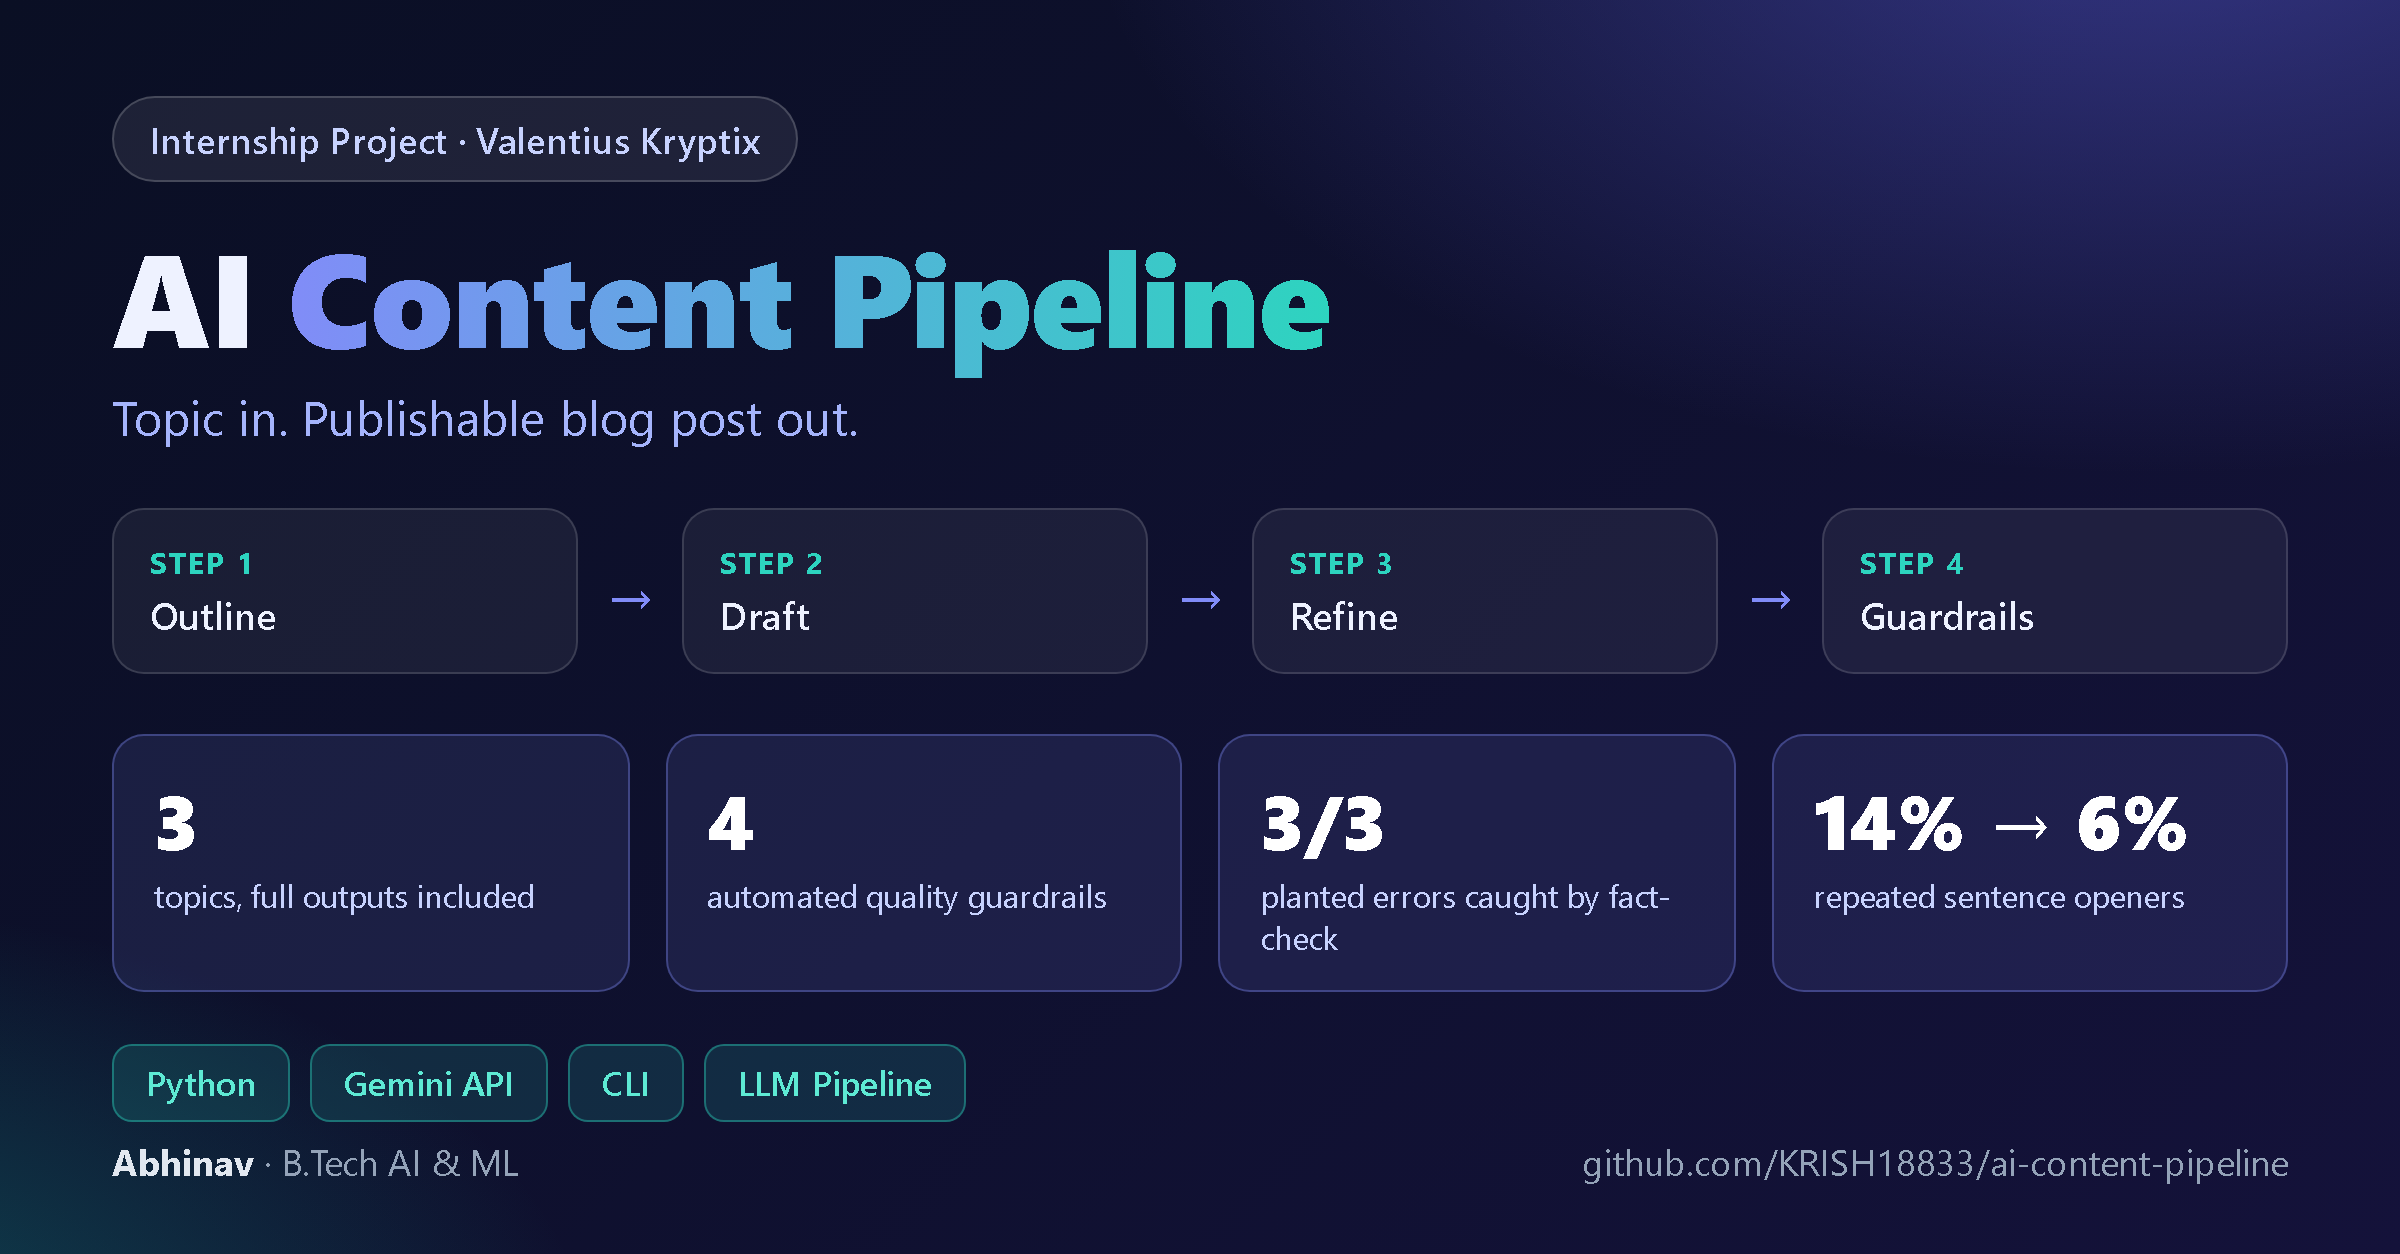
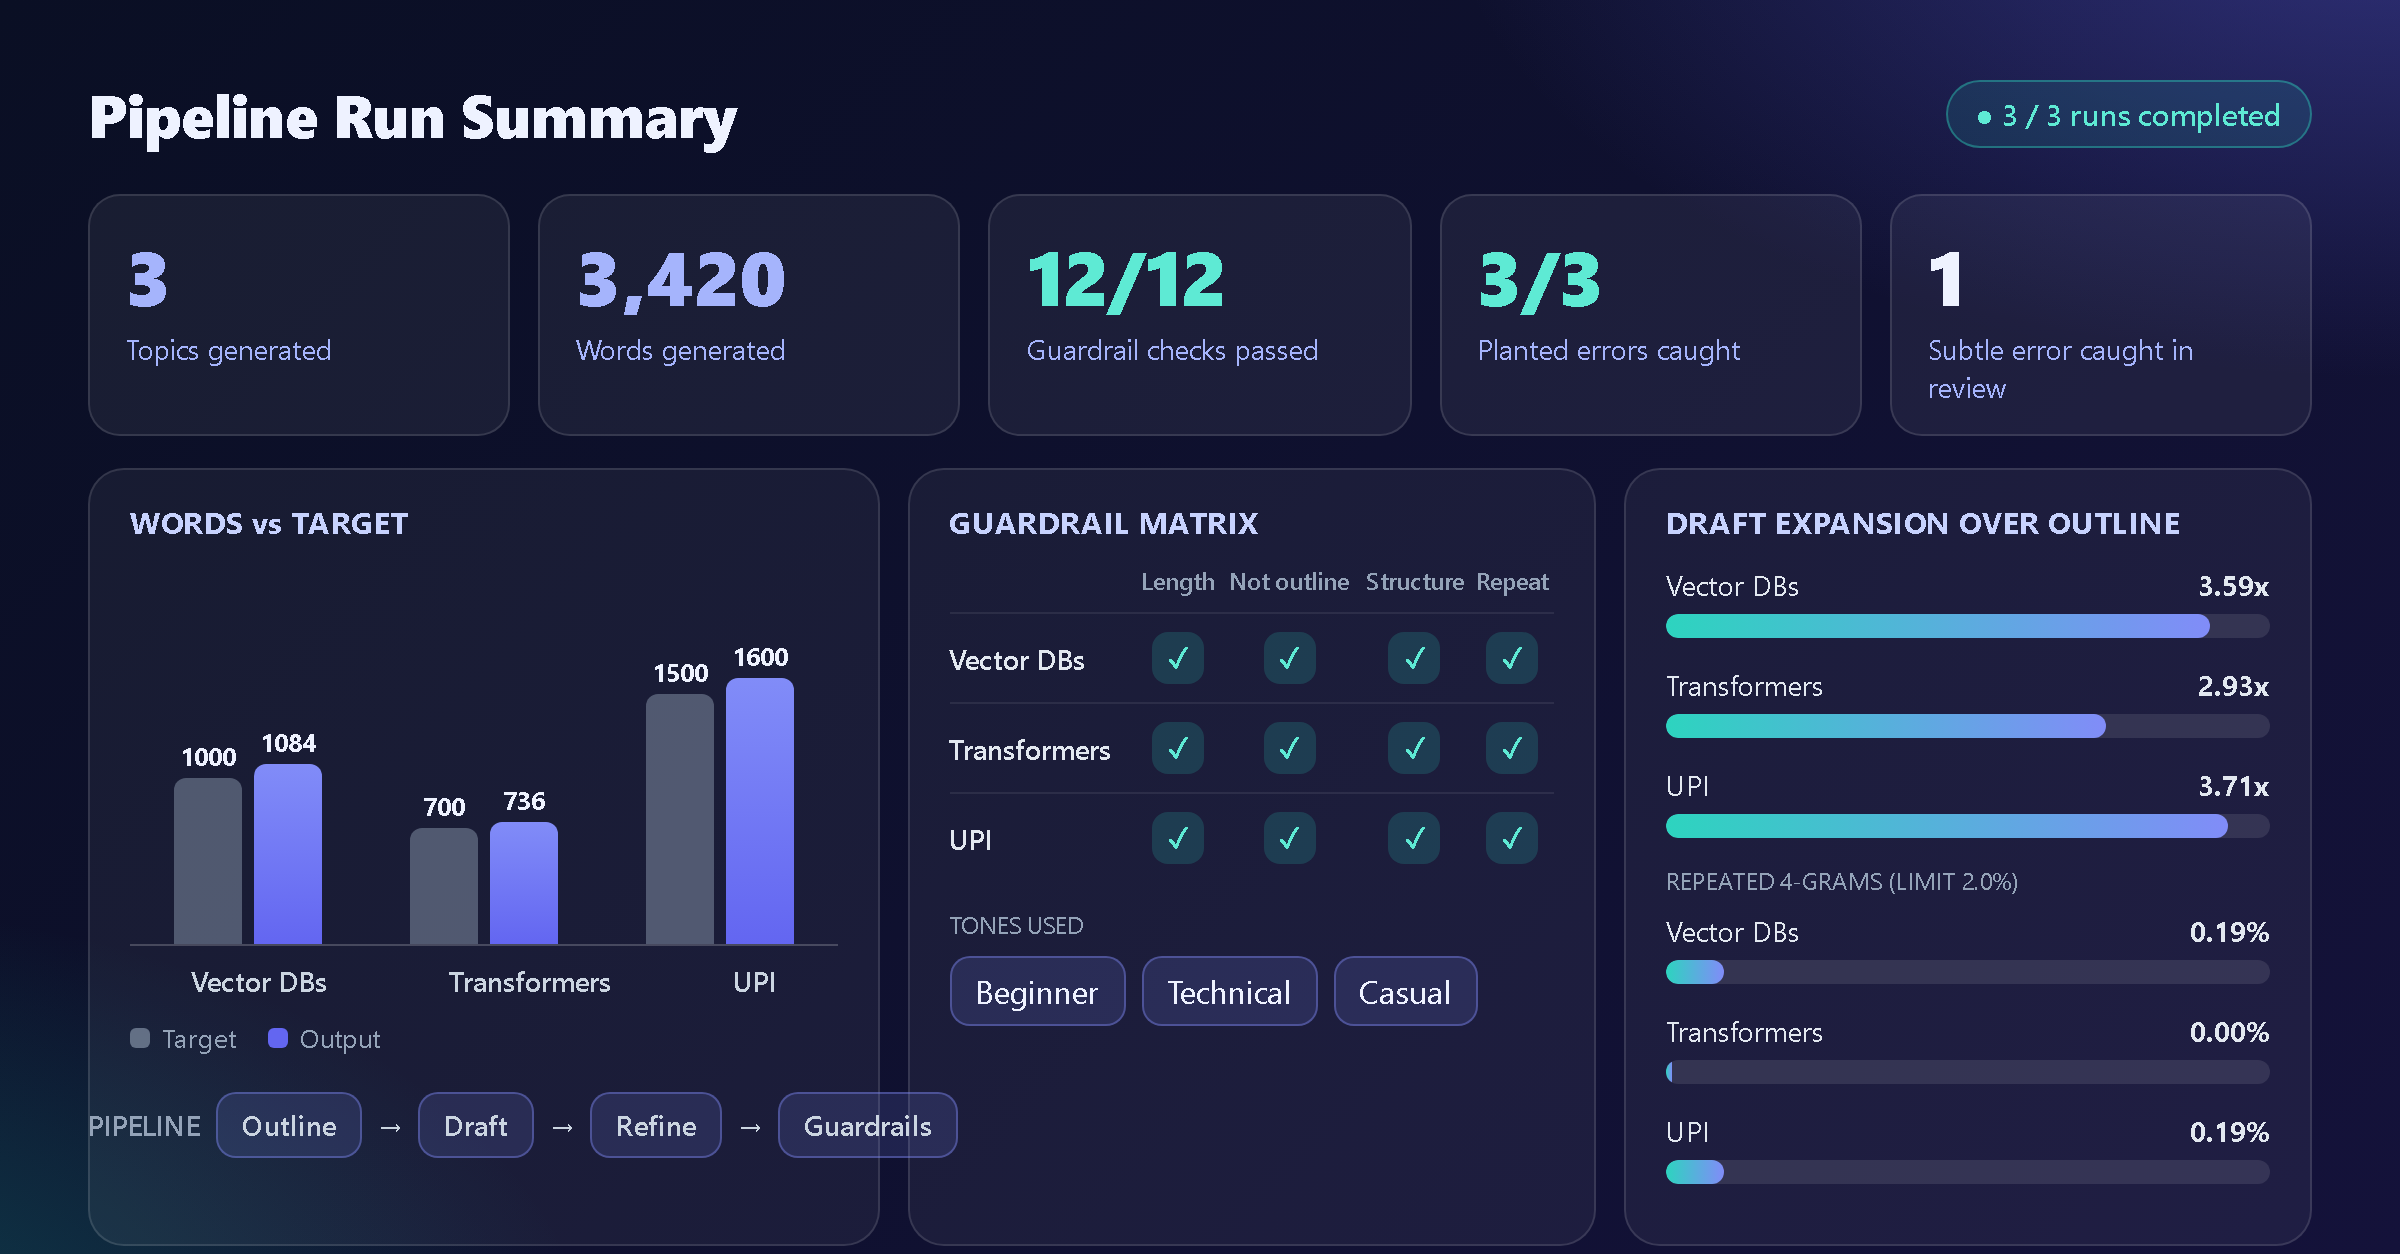
Redesign LinkedIn card as anonymous metrics dashboard

diff --git a/linkedin_card.html b/linkedin_card.html
@@ -5,60 +5,93 @@
 <style>
   * { box-sizing: border-box; margin: 0; padding: 0; }
   body { background: #05070f; }
-  .card {
-    width: 1200px; height: 627px; padding: 48px 56px; position: relative; overflow: hidden;
-    font-family: "Segoe UI", system-ui, -apple-system, sans-serif; color: #eef2ff;
-    background: radial-gradient(900px 500px at 90% -10%, rgba(99,102,241,.45), transparent 60%),
-                radial-gradient(700px 400px at -10% 110%, rgba(20,184,166,.35), transparent 60%),
-                linear-gradient(135deg, #0a0f24, #14123a);
-  }
-  .badge { display: inline-block; padding: 8px 18px; border-radius: 999px; font-size: 18px; font-weight: 600;
-    background: rgba(255,255,255,.08); border: 1px solid rgba(255,255,255,.18); color: #c7d2fe; }
-  h1 { font-size: 66px; line-height: 1.05; margin: 22px 0 10px; font-weight: 800; letter-spacing: -1px; }
-  h1 span { background: linear-gradient(90deg, #818cf8, #2dd4bf); -webkit-background-clip: text; color: transparent; }
-  .sub { font-size: 24px; color: #a5b4fc; margin-bottom: 30px; }
-  .flow { display: flex; align-items: center; gap: 14px; margin-bottom: 30px; }
-  .step { flex: 1; padding: 16px 18px; border-radius: 16px; background: rgba(255,255,255,.06);
-    border: 1px solid rgba(255,255,255,.14); }
-  .step b { display: block; font-size: 15px; color: #2dd4bf; letter-spacing: 1px; margin-bottom: 4px; }
-  .step div { font-size: 19px; font-weight: 600; }
-  .arrow { font-size: 28px; color: #818cf8; }
-  .stats { display: flex; gap: 18px; margin-bottom: 26px; }
-  .stat { flex: 1; padding: 16px 20px; border-radius: 16px; background: rgba(129,140,248,.12);
-    border: 1px solid rgba(129,140,248,.35); }
-  .stat .n { font-size: 38px; font-weight: 800; color: #fff; }
-  .stat .l { font-size: 16px; color: #c7d2fe; margin-top: 2px; }
-  .tags { display: flex; gap: 10px; }
-  .tag { padding: 7px 16px; border-radius: 10px; font-size: 17px; font-weight: 600;
-    background: rgba(45,212,191,.14); color: #5eead4; border: 1px solid rgba(45,212,191,.4); }
-  .footer { position: absolute; left: 56px; right: 56px; bottom: 34px; display: flex;
-    justify-content: space-between; align-items: center; font-size: 18px; color: #94a3b8; }
-  .footer b { color: #e2e8f0; }
+  .card { width: 1200px; height: 627px; padding: 36px 44px; font-family: "Segoe UI", system-ui, sans-serif; color: #eef2ff;
+    background: radial-gradient(800px 420px at 100% -10%, rgba(99,102,241,.4), transparent 60%),
+                radial-gradient(700px 400px at -10% 110%, rgba(20,184,166,.3), transparent 60%),
+                linear-gradient(135deg, #0a0f24, #14123a); }
+  .top { display: flex; justify-content: space-between; align-items: center; margin-bottom: 20px; }
+  .title { font-size: 30px; font-weight: 800; letter-spacing: -.5px; }
+  .live { font-size: 15px; font-weight: 600; color: #5eead4; padding: 6px 14px; border-radius: 999px;
+    background: rgba(45,212,191,.12); border: 1px solid rgba(45,212,191,.4); }
+  .kpis { display: grid; grid-template-columns: repeat(5, 1fr); gap: 14px; margin-bottom: 16px; }
+  .kpi { padding: 14px 18px; border-radius: 16px; background: rgba(255,255,255,.06); border: 1px solid rgba(255,255,255,.12); }
+  .kpi .n { font-size: 38px; font-weight: 800; }
+  .kpi .l { font-size: 14px; color: #a5b4fc; margin-top: 2px; }
+  .kpi.g .n { color: #5eead4; } .kpi.v .n { color: #a5b4fc; }
+  .grid { display: grid; grid-template-columns: 1.15fr 1fr 1fr; gap: 14px; height: 296px; }
+  .panel { padding: 16px 20px; border-radius: 18px; background: rgba(255,255,255,.05); border: 1px solid rgba(255,255,255,.12); }
+  .ph { font-size: 15px; font-weight: 700; color: #c7d2fe; margin-bottom: 12px; letter-spacing: .3px; }
+  .chart { display: flex; align-items: flex-end; justify-content: space-around; height: 190px; border-bottom: 1px solid rgba(255,255,255,.2); }
+  .grp { display: flex; align-items: flex-end; gap: 6px; }
+  .bar { width: 34px; border-radius: 6px 6px 0 0; position: relative; }
+  .bar.t { background: rgba(148,163,184,.45); } .bar.a { background: linear-gradient(180deg,#818cf8,#6366f1); }
+  .bar span { position: absolute; top: -20px; left: 50%; transform: translateX(-50%); font-size: 13px; font-weight: 700; white-space: nowrap; }
+  .labels { display: flex; justify-content: space-around; margin-top: 8px; font-size: 14px; color: #cbd5e1; font-weight: 600; }
+  .legend { display: flex; gap: 16px; margin-top: 10px; font-size: 13px; color: #94a3b8; }
+  .dot { display: inline-block; width: 10px; height: 10px; border-radius: 3px; margin-right: 6px; }
+  table { width: 100%; border-collapse: collapse; font-size: 14px; }
+  th { color: #94a3b8; font-weight: 600; font-size: 12px; padding-bottom: 8px; text-align: center; }
+  th:first-child, td:first-child { text-align: left; color: #e2e8f0; font-weight: 600; }
+  td { padding: 9px 0; text-align: center; border-top: 1px solid rgba(255,255,255,.08); }
+  .ok { display: inline-block; width: 26px; height: 26px; line-height: 26px; border-radius: 8px; background: rgba(45,212,191,.18);
+    color: #5eead4; font-weight: 800; }
+  .row { margin-bottom: 14px; } .row .lab { display: flex; justify-content: space-between; font-size: 14px; margin-bottom: 5px; color: #e2e8f0; }
+  .track { height: 12px; border-radius: 8px; background: rgba(255,255,255,.1); overflow: hidden; }
+  .fill { height: 100%; border-radius: 8px; background: linear-gradient(90deg,#2dd4bf,#818cf8); }
+  .sub { font-size: 12px; color: #94a3b8; margin: 14px 0 8px; }
+  .flow { display: flex; gap: 8px; margin-top: 16px; font-size: 14px; font-weight: 600; color: #cbd5e1; align-items: center; }
+  .pill { padding: 6px 12px; border-radius: 10px; background: rgba(129,140,248,.15); border: 1px solid rgba(129,140,248,.4); }
 </style>
 </head>
 <body>
 <div class="card">
-  <div class="badge">Internship Project · Valentius Kryptix</div>
-  <h1>AI <span>Content Pipeline</span></h1>
-  <div class="sub">Topic in. Publishable blog post out.</div>
+  <div class="top"><div class="title">Pipeline Run Summary</div><div class="live">● 3 / 3 runs completed</div></div>
 
-  <div class="flow">
-    <div class="step"><b>STEP 1</b><div>Outline</div></div><div class="arrow">→</div>
-    <div class="step"><b>STEP 2</b><div>Draft</div></div><div class="arrow">→</div>
-    <div class="step"><b>STEP 3</b><div>Refine</div></div><div class="arrow">→</div>
-    <div class="step"><b>STEP 4</b><div>Guardrails</div></div>
+  <div class="kpis">
+    <div class="kpi v"><div class="n">3</div><div class="l">Topics generated</div></div>
+    <div class="kpi v"><div class="n">3,420</div><div class="l">Words generated</div></div>
+    <div class="kpi g"><div class="n">12/12</div><div class="l">Guardrail checks passed</div></div>
+    <div class="kpi g"><div class="n">3/3</div><div class="l">Planted errors caught</div></div>
+    <div class="kpi"><div class="n">1</div><div class="l">Subtle error caught in review</div></div>
   </div>
 
-  <div class="stats">
-    <div class="stat"><div class="n">3</div><div class="l">topics, full outputs included</div></div>
-    <div class="stat"><div class="n">4</div><div class="l">automated quality guardrails</div></div>
-    <div class="stat"><div class="n">3/3</div><div class="l">planted errors caught by fact-check</div></div>
-    <div class="stat"><div class="n">14% → 6%</div><div class="l">repeated sentence openers</div></div>
+  <div class="grid">
+    <div class="panel">
+      <div class="ph">WORDS vs TARGET</div>
+      <div class="chart">
+        <div class="grp"><div class="bar t" style="height:83px"><span>1000</span></div><div class="bar a" style="height:90px"><span>1084</span></div></div>
+        <div class="grp"><div class="bar t" style="height:58px"><span>700</span></div><div class="bar a" style="height:61px"><span>736</span></div></div>
+        <div class="grp"><div class="bar t" style="height:125px"><span>1500</span></div><div class="bar a" style="height:133px"><span>1600</span></div></div>
+      </div>
+      <div class="labels"><div>Vector DBs</div><div>Transformers</div><div>UPI</div></div>
+      <div class="legend"><div><span class="dot" style="background:rgba(148,163,184,.6)"></span>Target</div><div><span class="dot" style="background:#6366f1"></span>Output</div></div>
+    </div>
+
+    <div class="panel">
+      <div class="ph">GUARDRAIL MATRIX</div>
+      <table>
+        <tr><th></th><th>Length</th><th>Not outline</th><th>Structure</th><th>Repeat</th></tr>
+        <tr><td>Vector DBs</td><td><span class="ok">✓</span></td><td><span class="ok">✓</span></td><td><span class="ok">✓</span></td><td><span class="ok">✓</span></td></tr>
+        <tr><td>Transformers</td><td><span class="ok">✓</span></td><td><span class="ok">✓</span></td><td><span class="ok">✓</span></td><td><span class="ok">✓</span></td></tr>
+        <tr><td>UPI</td><td><span class="ok">✓</span></td><td><span class="ok">✓</span></td><td><span class="ok">✓</span></td><td><span class="ok">✓</span></td></tr>
+      </table>
+      <div class="sub">TONES USED</div>
+      <div style="display:flex;gap:8px"><div class="pill">Beginner</div><div class="pill">Technical</div><div class="pill">Casual</div></div>
+    </div>
+
+    <div class="panel">
+      <div class="ph">DRAFT EXPANSION OVER OUTLINE</div>
+      <div class="row"><div class="lab"><span>Vector DBs</span><b>3.59x</b></div><div class="track"><div class="fill" style="width:90%"></div></div></div>
+      <div class="row"><div class="lab"><span>Transformers</span><b>2.93x</b></div><div class="track"><div class="fill" style="width:73%"></div></div></div>
+      <div class="row"><div class="lab"><span>UPI</span><b>3.71x</b></div><div class="track"><div class="fill" style="width:93%"></div></div></div>
+      <div class="sub">REPEATED 4-GRAMS (LIMIT 2.0%)</div>
+      <div class="row"><div class="lab"><span>Vector DBs</span><b>0.19%</b></div><div class="track"><div class="fill" style="width:9.5%"></div></div></div>
+      <div class="row"><div class="lab"><span>Transformers</span><b>0.00%</b></div><div class="track"><div class="fill" style="width:1%"></div></div></div>
+      <div class="row"><div class="lab"><span>UPI</span><b>0.19%</b></div><div class="track"><div class="fill" style="width:9.5%"></div></div></div>
+    </div>
   </div>
 
-  <div class="tags"><div class="tag">Python</div><div class="tag">Gemini API</div><div class="tag">CLI</div><div class="tag">LLM Pipeline</div></div>
-
-  <div class="footer"><div><b>Abhinav</b> · B.Tech AI &amp; ML</div><div>github.com/KRISH18833/ai-content-pipeline</div></div>
+  <div class="flow"><span style="color:#94a3b8">PIPELINE</span><div class="pill">Outline</div>→<div class="pill">Draft</div>→<div class="pill">Refine</div>→<div class="pill">Guardrails</div></div>
 </div>
 </body>
 </html>
